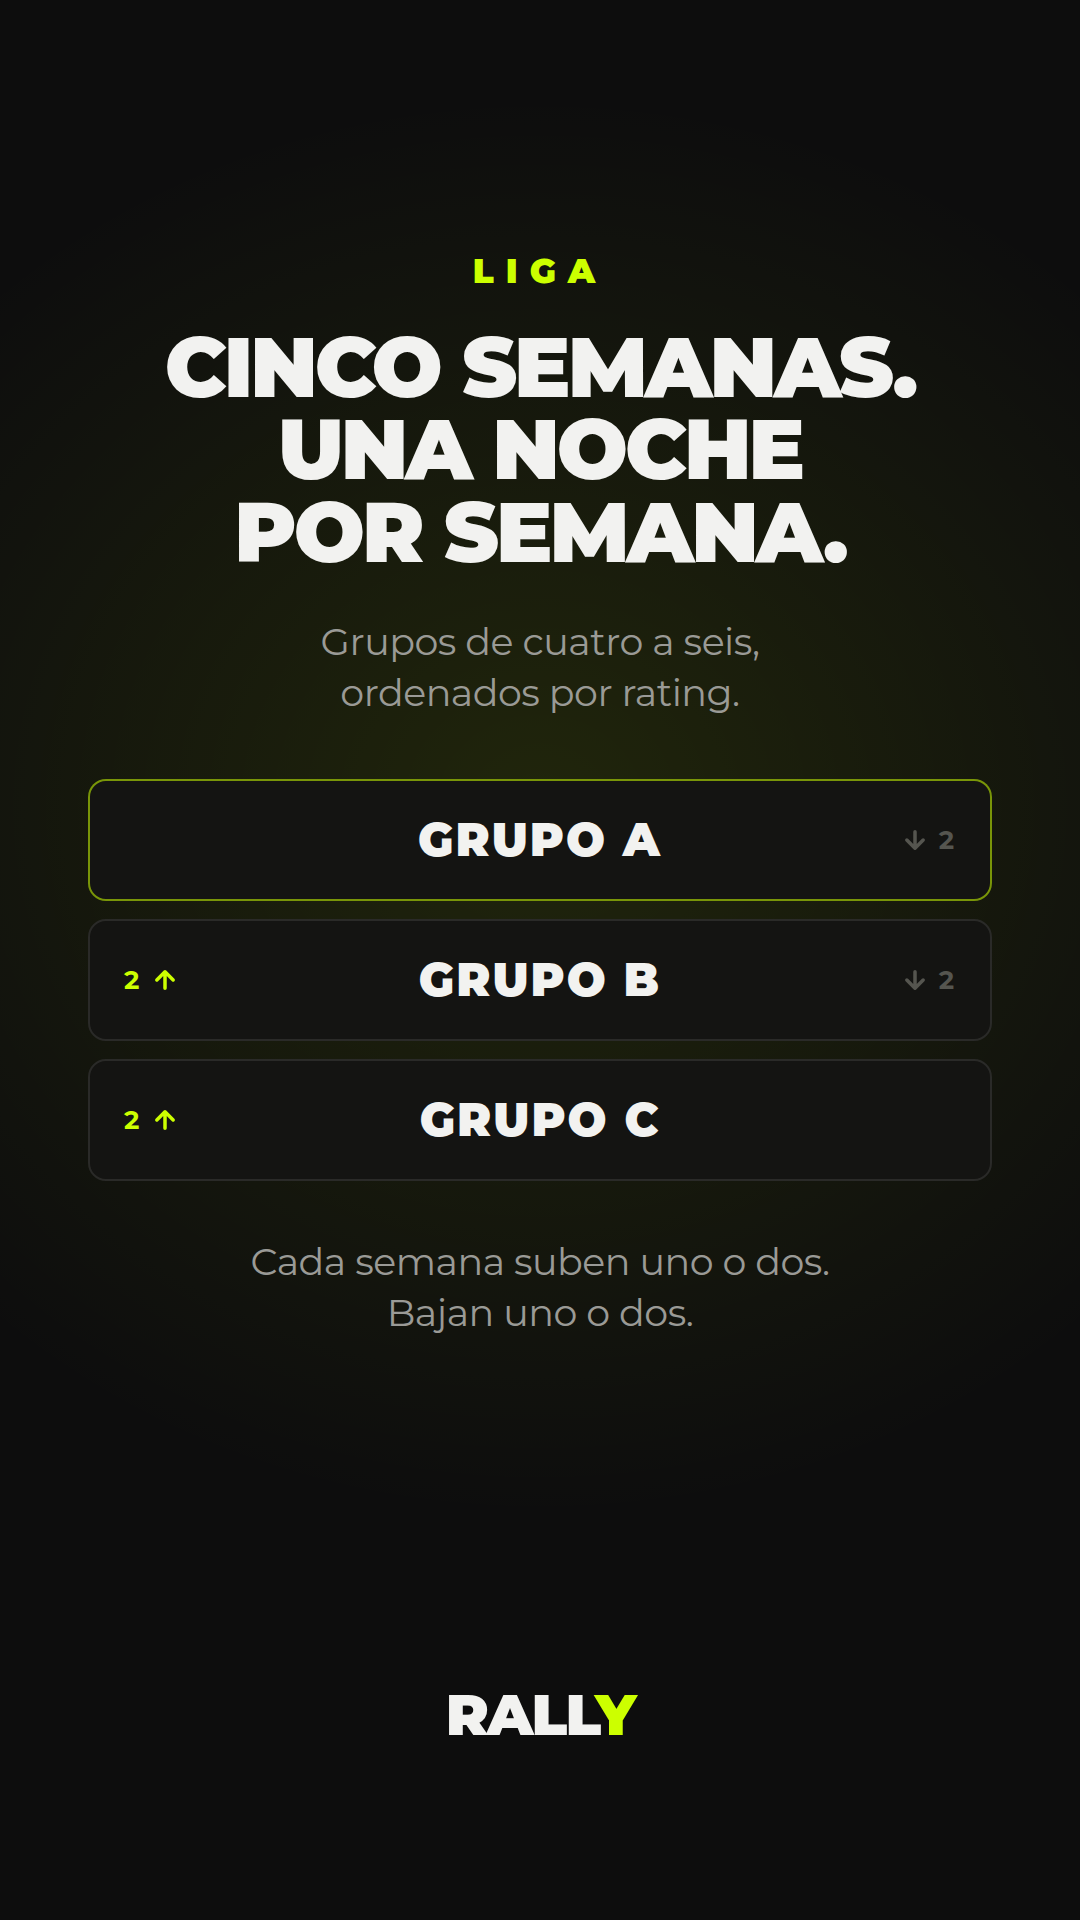
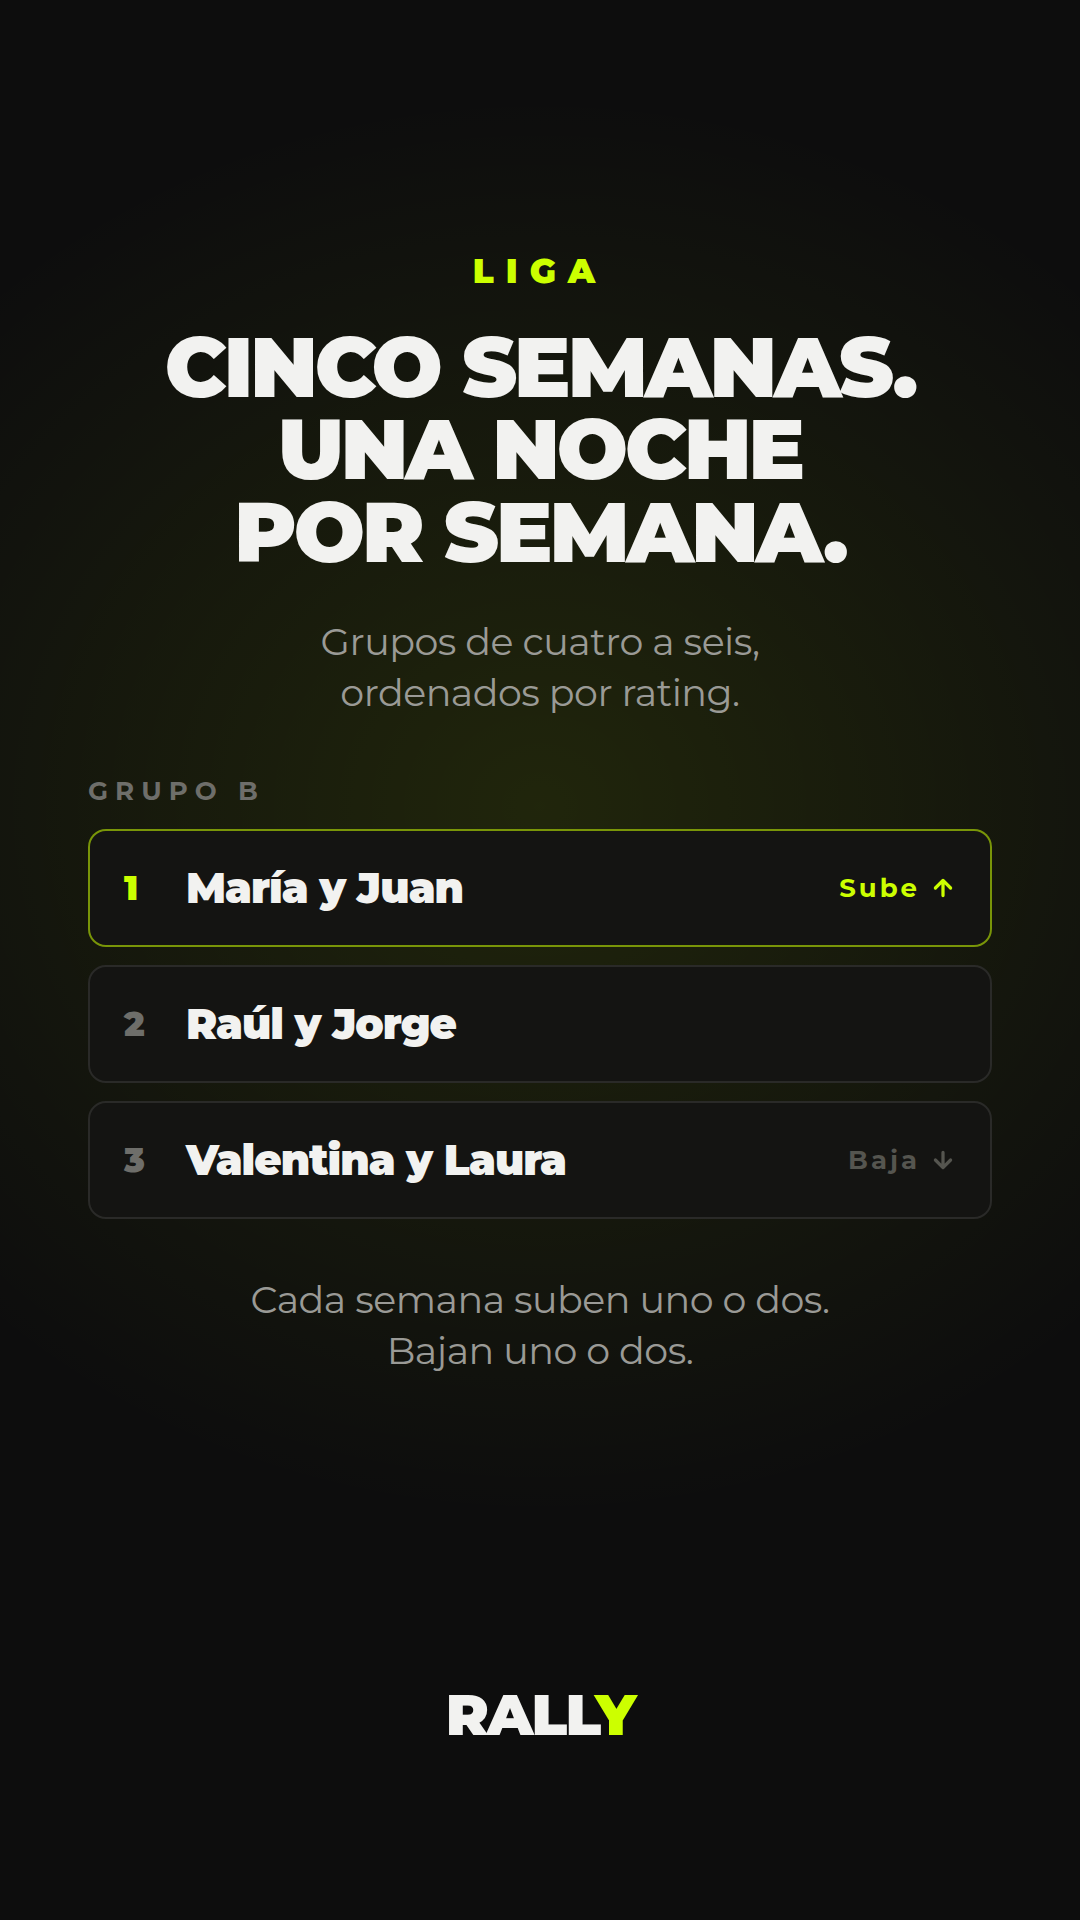
Name the ladder pairs; swap frame 6 to a live app screen
Frame 3: the A/B/C rungs become three named pairs inside Grupo B — María
y Juan, Raúl y Jorge, Valentina y Laura — with Sube/Baja chips on the top
and bottom rows. Reads as one group's standings rather than three lettered
tiers, which is the thing the frame is actually teaching.

Frame 6: replaces the empty-state explainer card with a real screen — the
expanded "You" row at rank 3, rating 1305, 3RD OF 4, framed by 55 TO CLIMB
and 65 CUSHION. Cropped to that row and its gap rails so the source
screen's test-account names stay out of the story. Headline drops to "Tu
sitio. Tu distancia." to match what the screen shows.

Claude-Session: https://claude.ai/code/session_013CqyDTDEbpBcvHvWdHJak1

diff --git a/social/stories/liga-y-torneo/src/03-liga.html b/social/stories/liga-y-torneo/src/03-liga.html
@@ -4,17 +4,19 @@
 <div class="safe">
   <div class="eyebrow">Liga</div>
   <div class="headline" style="margin-top:34px">Cinco semanas.<br>Una noche<br>por semana.</div>
-  <div class="sub" style="margin:44px 0 60px">Grupos de cuatro a seis,<br>ordenados por rating.</div>
+  <div class="sub" style="margin:44px 0 56px">Grupos de cuatro a seis,<br>ordenados por rating.</div>
+  <div class="group-label">Grupo B</div>
   <div class="ladder">
-    <div class="rung top">Grupo A
-      <span class="arrow down"><svg viewBox="0 0 24 24" fill="none" stroke="currentColor" stroke-width="3" stroke-linecap="round" stroke-linejoin="round"><path d="M12 5v14M5 12l7 7 7-7"/></svg>2</span>
+    <div class="rung up">
+      <span class="rank">1</span><span class="pair">María y Juan</span>
+      <span class="move up">Sube<svg viewBox="0 0 24 24" fill="none" stroke="currentColor" stroke-width="3" stroke-linecap="round" stroke-linejoin="round"><path d="M12 19V5M5 12l7-7 7 7"/></svg></span>
     </div>
-    <div class="rung">Grupo B
-      <span class="arrow up">2<svg viewBox="0 0 24 24" fill="none" stroke="currentColor" stroke-width="3" stroke-linecap="round" stroke-linejoin="round"><path d="M12 19V5M5 12l7-7 7 7"/></svg></span>
-      <span class="arrow down"><svg viewBox="0 0 24 24" fill="none" stroke="currentColor" stroke-width="3" stroke-linecap="round" stroke-linejoin="round"><path d="M12 5v14M5 12l7 7 7-7"/></svg>2</span>
+    <div class="rung">
+      <span class="rank">2</span><span class="pair">Raúl y Jorge</span>
     </div>
-    <div class="rung">Grupo C
-      <span class="arrow up">2<svg viewBox="0 0 24 24" fill="none" stroke="currentColor" stroke-width="3" stroke-linecap="round" stroke-linejoin="round"><path d="M12 19V5M5 12l7-7 7 7"/></svg></span>
+    <div class="rung">
+      <span class="rank">3</span><span class="pair">Valentina y Laura</span>
+      <span class="move down">Baja<svg viewBox="0 0 24 24" fill="none" stroke="currentColor" stroke-width="3" stroke-linecap="round" stroke-linejoin="round"><path d="M12 5v14M5 12l7 7 7-7"/></svg></span>
     </div>
   </div>
   <div class="sub" style="margin-top:56px">Cada semana suben uno o dos.<br>Bajan uno o dos.</div>

diff --git a/social/stories/liga-y-torneo/src/style.css b/social/stories/liga-y-torneo/src/style.css
@@ -84,37 +84,58 @@ body {
 /* Ladder — group A/B/C with promotion up, relegation down. */
 .ladder { width: 100%; display: flex; flex-direction: column; gap: 18px; }
 
+.group-label {
+  align-self: flex-start;
+  margin-bottom: 22px;
+  font-weight: 700;
+  font-size: 26px;
+  letter-spacing: 7px;
+  text-transform: uppercase;
+  color: var(--muted);
+}
+
 .rung {
-  position: relative;
   display: flex;
   align-items: center;
-  justify-content: center;
-  height: 122px;
+  gap: 28px;
+  height: 118px;
+  padding: 0 34px;
   border: 2px solid var(--line);
   border-radius: 18px;
   background: #141412;
-  font-weight: 900;
-  font-size: 46px;
-  letter-spacing: 2px;
-  text-transform: uppercase;
 }
 
-.rung.top { border-color: rgba(204,255,0,.55); }
+.rung.up { border-color: rgba(204,255,0,.55); }
 
-.arrow {
-  position: absolute;
+.rung .rank {
+  width: 34px;
+  font-weight: 900;
+  font-size: 34px;
+  color: var(--muted);
+}
+
+.rung.up .rank { color: var(--lime); }
+
+.rung .pair {
+  font-weight: 900;
+  font-size: 42px;
+  letter-spacing: -1px;
+}
+
+.move {
+  margin-left: auto;
   display: flex;
   align-items: center;
   gap: 10px;
   font-weight: 700;
   font-size: 26px;
-  letter-spacing: 2px;
+  letter-spacing: 3px;
 }
 
-.arrow.up { left: 34px; color: var(--lime); }
-.arrow.down { right: 34px; color: #55554F; }
+.move.up { color: var(--lime); }
+.move.down { color: #55554F; }
 
-.arrow svg { width: 28px; height: 28px; }
+.move svg { width: 26px; height: 26px; }
 
 /* Product screenshot, framed as a card on the story ground. */
 .shot {
@@ -123,6 +144,15 @@ body {
   border: 2px solid var(--line);
   display: block;
 }
+
+.panel {
+  width: 850px;
+  padding: 30px 26px;
+  border-radius: 28px;
+  background: #141414;
+}
+
+.panel img { width: 100%; display: block; }
 
 .wordmark {
   position: absolute;

diff --git a/social/stories/liga-y-torneo/src/06-lo-que-ves.html b/social/stories/liga-y-torneo/src/06-lo-que-ves.html
@@ -2,9 +2,9 @@
 <html lang="es"><head><meta charset="UTF-8"><title>RALLY liga 06</title>
 <link rel="stylesheet" href="style.css"></head><body><div class="frame">
 <div class="safe">
-  <div class="headline sm">Tu sitio.<br>Tu distancia.<br>Tu historial.</div>
+  <div class="headline sm">Tu sitio.<br>Tu distancia.</div>
   <div class="spacer"></div>
-  <img class="shot" src="card-groups.png" alt="Lo que muestra una tabla de RALLY">
+  <div class="panel"><img src="card-gaps.png" alt="Tu posición en el grupo y los puntos que te separan"></div>
   <div class="spacer"></div>
   <div class="sub">Todo partido cuenta para el rating.<br>Liga, torneo o amistoso.</div>
 </div>

diff --git a/social/stories/liga-y-torneo/README.md b/social/stories/liga-y-torneo/README.md
@@ -13,10 +13,10 @@ then close.
 |---|---|---|
 | 1 | `out/01-por-que-grupo-b.png` | ¿Por qué estoy en el **grupo B**? — "La pregunta de cada temporada." |
 | 2 | `out/02-no-es-un-sorteo.png` | No es un sorteo. **Es un orden.** — "Mismos jugadores. Mismos ratings. Mismo cuadro. Siempre." |
-| 3 | `out/03-liga.png` | LIGA · Cinco semanas. Una noche por semana. + la escalera A/B/C |
+| 3 | `out/03-liga.png` | LIGA · Cinco semanas. Una noche por semana. + la escalera del Grupo B |
 | 4 | `out/04-tu-grupo.png` | Ves tu grupo y tu movimiento. — "Nadie ve «8º de 8»." |
 | 5 | `out/05-torneo.png` | TORNEO · Un día. + cuadro con cabezas de serie repartidas |
-| 6 | `out/06-lo-que-ves.png` | Tu sitio. Tu distancia. Tu historial. — "Todo partido cuenta para el rating." |
+| 6 | `out/06-lo-que-ves.png` | Tu sitio. Tu distancia. — "Todo partido cuenta para el rating." |
 | 7 | `out/07-nos-vemos-en-septiembre.png` | Liga y torneo **cargando...** + "Nos vemos en Septiembre" |
 
 `out/07b-nos-vemos-sin-sticker.png` is frame 7 with the sticker removed — use it
@@ -34,15 +34,19 @@ Both come from the Drive album `App Pics`, cropped to the card so no phone
 chrome or empty-state scaffolding comes along:
 
 - Frame 4 — the group standings table from `Cups / Competition is empty`.
-- Frame 6 — the "who is best / how far off / who you beat" card from
-  `Groups / Empty Groups page`.
+- Frame 6 — the expanded "You" row from `Groups / Screenshot 2026-08-05 at
+  22.22.55.png`: rank 3, rating 1305, `3RD OF 4`, with `55 TO CLIMB` above and
+  `65 CUSHION` below. A live screen with real data.
 
 Two things to know about them:
 
-- **They are empty-state screens.** The table is labelled `EXAMPLE` in the
-  product, and that label is visible in frame 4. There is no populated league
-  table, ladder, or seeded bracket anywhere in Drive — if you want frames 4 and
-  6 to show real data, those captures need to be taken.
+- **Frame 6 is cropped tight on purpose.** The full screen it comes from is
+  titled `TEST GROUP A` and lists `Apple Test` and `Apple test 2` as opponents.
+  The crop takes only the "You" row and its two gap rails, so no test-account
+  name reaches the story. If you want a frame showing the whole table, capture
+  one with real players first.
+- **Frame 4 is still an empty state** — the table carries the product's own
+  `EXAMPLE` label, and it is visible. No populated bracket exists in Drive.
 - **The app UI is in English, the story copy is Spanish.** Normal for the launch
   phase, but frames 4 and 6 are where the seam shows.
 
